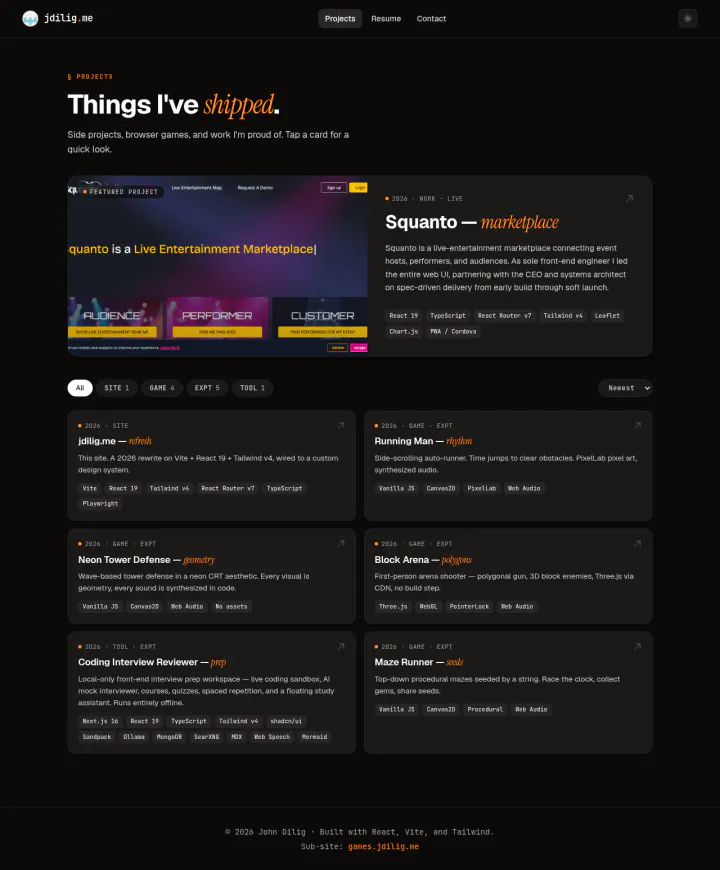
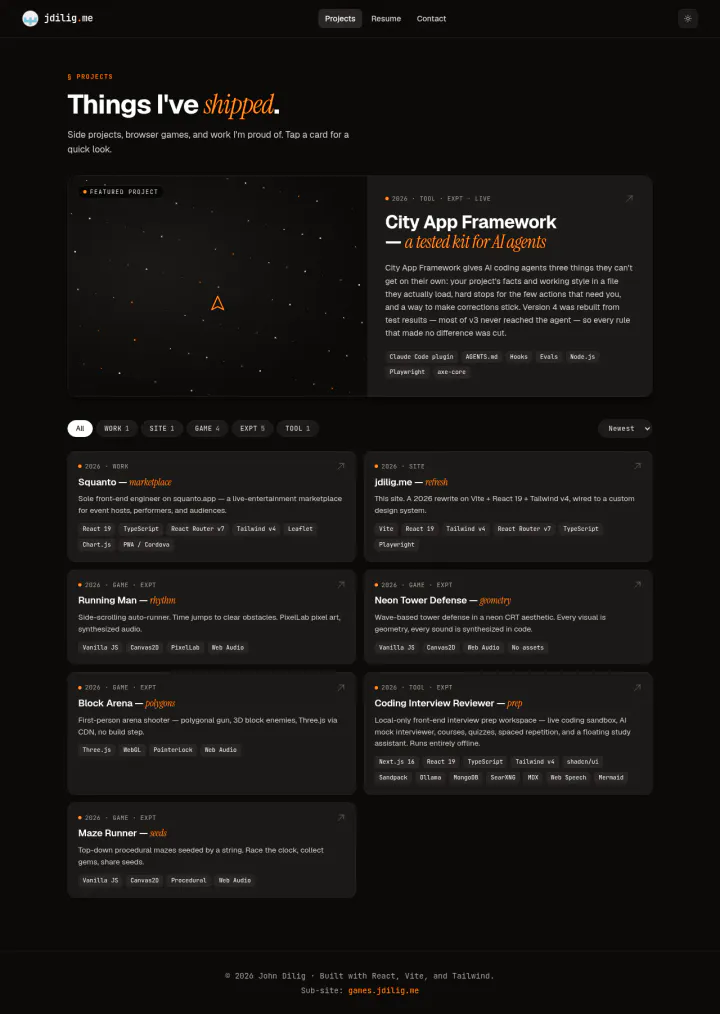
Bring back City App Framework, rewritten for v4
City App Framework v4 is a Claude Code plugin rebuilt from test results.
Its project page now describes v4 (setup, hooks, lessons, rule testing,
and front-end checks), with every number taken from the framework
repo's README, docs/findings-2026-09.md, and decision 001.

- Un-hide it and make it the featured project again (Squanto no
  longer is).
- v4 has no website: drop the whitepaper-site link, its screenshot and
  thumbnail, and its capture step. The featured card and pop-up show
  the starfield placeholder.
- Re-add /projects/city-app-framework to the sitemap.
- Retake the home, projects, and project-page screenshots.
- Update the comments and docs that named the 2560 px screenshot.

Claude-Session: https://claude.ai/code/session_01NJcaYBv3Qm8KUHS4kHoaP5

diff --git a/src/data/projects.ts b/src/data/projects.ts
@@ -107,46 +107,41 @@ export const ALL_PROJECTS: Project[] = [
     categories: ['TOOL', 'EXPT'],
     year: '2026',
     title: 'City App Framework',
-    accent: 'an OS for AI-driven dev',
+    accent: 'a tested kit for AI agents',
     status: 'LIVE',
-    desc: 'A personal "operating system" for building apps and games with AI coding agents — universal rules, per-project conventions, and a Sponsor / AI-Council operating model.',
+    desc: 'A small Claude Code plugin for building apps with AI coding agents — project setup, hard stops for risky actions, corrections that stick, and front-end checks, each tested against real model runs.',
     summary:
-      'AI agents are stateless: every project is "first prompt" forever. City App Framework is the answer — a universal AGENTS.md plus per-project AGENTS.md files that bake in how I want code structured, named, tested, and reviewed. Two layers, a Sponsor / AI-Council operating model, and templates I can drop into any new repo so Claude, Grok, and friends start aligned instead of drifting.',
+      "City App Framework gives AI coding agents three things they can't get on their own: your project's facts and working style in a file they actually load, hard stops for the few actions that need you, and a way to make corrections stick. Version 4 was rebuilt from test results — most of v3 never reached the agent — so every rule that made no difference was cut.",
     tags: [
+      'Claude Code plugin',
       'AGENTS.md',
-      'Claude Code',
-      'Grok',
-      'Spec-driven',
-      'Conventions',
-      'Templates',
-      'Anti-overengineering',
+      'Hooks',
+      'Evals',
+      'Node.js',
+      'Playwright',
+      'axe-core',
     ],
-    role: 'Author / Sponsor',
+    role: 'Author',
     timeline: 'Aug 2025 — Present',
     featured: true,
-    // Hidden Sept 27, 2026 while it's being redone.
-    hidden: true,
     overview: [
-      'City App Framework is a personal development framework for building apps and games with AI coding agents (Claude, Grok, others). It exists to solve one specific problem: AI agents are stateless, so without a baked-in answer to "how does John want code structured, named, tested, and reviewed," every new project burns tokens on the same arbitrary choices and drifts from how I actually build.',
-      'The architecture has two layers. The universal layer (this repo) holds rules and patterns that apply across all my projects — anti-overengineering, escalation triggers, decision patterns, communication norms. The per-project layer is each project\'s own AGENTS.md — stack, commands, file layout, naming, footguns. When an agent opens a project, it reads the project\'s AGENTS.md first, then falls back to the universal rules.',
-      'The operating model treats the relationship as Sponsor + AI Council, not democracy. I set vision and boundaries; the agents execute autonomously inside them, escalate only when human judgment is genuinely required, and propose improvements after significant work. It\'s the slim, operational descendant of an earlier "City 2.0" design exercise that framed development as autonomous city governance — same metaphor, less ceremony.',
+      "City App Framework is a small kit for building apps with AI coding agents, shipped as a Claude Code plugin. Running `/city-app:setup` in a project installs a 28-line AGENTS.md — the project's facts, filled in from the repo, plus an 8-line working agreement — a one-line CLAUDE.md that makes Claude load it, and two hooks: a guard that asks before a new dependency or deleting a test and blocks force-push, production deploys, and publishing, and a test gate that won't let the agent finish with failing or newly skipped tests. The AGENTS.md part also works with Codex, Cursor, Copilot, and Grok.",
+      "Version 4 is a rebuild. A test harness runs headless Claude Code on a small app and scores every run with fixed checks, and it showed that most of v3 never reached the agent: its CLAUDE.md pointer stopped Claude from loading AGENTS.md automatically, and the universal rules sat behind a link no agent opened (0 of 25 runs). Rules against overbuilding and new dependencies made no difference either — none of 285 runs added a dependency, with or without them, even when asked for a web server. So v4 cuts every rule that didn't change behavior and puts anything that must never happen in a hook.",
+      'The rest of the plugin: `/city-app:start` builds an app or feature from a short spec, tests first; `/city-app:lesson` turns a correction into a test, a guard rule, or one AGENTS.md line; and `rules:test` and `rules:prune` re-check whether each rule still earns its place on your project, for example after a model update. Front-end checks round it out: `ui:check` finds accessibility problems, console errors, and pages wider than the screen at phone, tablet, and desktop sizes; `ui:baseline` fails a page that no longer matches its approved screenshot; and `ui:tokens` keeps colors in design tokens.',
     ],
     highlights: [
-      'Two-layer architecture — universal AGENTS.md + per-project AGENTS.md — so an agent always has fallback rules without the universal layer overriding project-specific intent.',
-      'Sponsor / AI-Council operating model with explicit escalation triggers (new dependency, scope change, architecture choice, irreversible operation) — agents act autonomously inside the boundary and only ask when they should.',
-      'Drop-in templates (project-AGENTS.md, project-CLAUDE.md, project-GROK.md, project-README.md) so a new repo is wired into the framework with one copy/paste.',
-      'Codified conventions/ and decision-patterns/ folders capturing operational rules (anti-overengineering, escalation, communication norms) and recurring tradeoffs with guidance — extracted from real `AGENTS.md` files in jdilig-me-v3, coding-interview-reviewer, and ai-browser-game-demos.',
-      'Earlier "City 2.0" philosophy-first design preserved in docs/design-notes/ — 8 Constitutional Principles, 22 docs — kept for thinking, not loaded into daily execution.',
-      'Demo / whitepaper site deployed on Vercel from examples/website/ as the framework\'s public face.',
+      'Every part tested against real model runs — 285 scored headless Claude Code sessions — and rules that made no difference were cut.',
+      'Found the rules that still change behavior: with a "build the smallest part, then offer options" rule, agents offered options on a vague ask in 5 of 5 runs (0 of 5 without it), and a one-line "add a test for new logic" rule raised test writing from 17 of 25 runs to 25 of 25.',
+      'Lessons that stick: a journal of past mistakes carried its lesson in 0 of 5 runs, while one AGENTS.md line or a failing check carried it in 5 of 5 — so `/city-app:lesson` writes checks and one-line rules, not journal entries.',
+      "Hooks as hard stops, because instructions are advice and hooks are guarantees: adding a package brings up an Allow/Deny prompt for the human, even in auto mode, and the agent can't finish while tests fail.",
+      'The harness tested the kit itself: a first-draft rule sent agents to a reviewer on a trivial `--json` flag in 3 of 5 runs for no gain, so it was cut. On small tasks a solo agent was right 15 of 16 times, and a second "reviewer" agent caught nothing.',
+      'A demo app, `demo/habit-web`, uses every part with the evidence for each. Its UI check catches four planted bugs — a console error, a page that scrolls sideways on phones, a button with no name for screen readers, and an image with no alt text — each with a fix-it message.',
     ],
     learned:
-      'The win wasn\'t a clever prompt — it was treating AGENTS.md as the single source of truth for how the agent works. Once the rules live in a file the agent always reads, the first prompt of every project gets dramatically shorter and the drift between projects collapses. The framework is doing the work the system prompt should have done all along.',
+      "More rules didn't make better agents. v3 had a 178-line universal AGENTS.md and about 40 convention docs, but most of it never reached the agent, and some of what did — like the anti-overbuild and no-new-dependency rules — was already the model's default. Only short, specific rules the agent could actually load changed its behavior. So v4 keeps a short working agreement, turns lessons into checks, and puts anything that must never happen in a hook. The city idea survives in one form: laws are enforced; customs are advice.",
     links: {
-      live: 'https://website-pi-one-3ymijizbxt.vercel.app',
       source: 'https://github.com/balbonits/city-app-framework',
     },
-    liveLabel: 'View whitepaper',
-    previewImage: '/screenshots/city-app-framework.webp',
   },
   {
     slug: 'squanto',
@@ -185,9 +180,6 @@ export const ALL_PROJECTS: Project[] = [
     links: {
       live: 'https://squanto.app/',
     },
-    // Featured while City App Framework is hidden. When it's back, remove
-    // this line (the tests allow only one featured project).
-    featured: true,
     previewImage: '/screenshots/squanto-home.webp',
     gallery: [
       {

diff --git a/tests/screenshots.spec.ts b/tests/screenshots.spec.ts
@@ -61,9 +61,6 @@ const SHOTS: Shot[] = [
   { slug: 'squanto-contact', path: 'https://squanto.app/contact-us', external: true, timeout: 60_000 },
   { slug: 'squanto-demo', path: 'https://squanto.app/request-a-demo', external: true, timeout: 60_000 },
 
-  // --- city-app-framework whitepaper site ---
-  { slug: 'city-app-framework', path: 'https://website-pi-one-3ymijizbxt.vercel.app/', external: true, timeout: 60_000 },
-
   // --- AI Browser Game Demos (games.jdilig.me) ---
   // Games gate their first canvas paint on a user gesture (AudioContext
   // policy). We send a Space keypress before screenshotting so the canvas

diff --git a/src/data/screenshots.test.ts b/src/data/screenshots.test.ts
@@ -8,8 +8,7 @@ import { PROJECTS } from './projects';
 // Gallery tiles and project previews pick between the thumbnail and the
 // original with srcset, which needs both files at the widths it claims. The
 // browser only uses the claimed width to pick a file (CSS sizes the image), so
-// an original may be wider than FULL_WIDTH (city-app-framework is 2560 px)
-// but not narrower.
+// an original may be wider than FULL_WIDTH but not narrower.
 const inPublic = (src: string) => join(process.cwd(), 'public', src);
 const widthOf = async (src: string) => (await sharp(inPublic(src)).metadata()).width;
 

diff --git a/src/lib/screenshots.ts b/src/lib/screenshots.ts
@@ -1,6 +1,6 @@
 /**
- * Screenshots are at least 1280 px wide (Playwright's Desktop Chrome preset;
- * city-app-framework.webp is 2560) and each has a 720 px-wide copy in
+ * Screenshots are at least 1280 px wide (Playwright's Desktop Chrome preset)
+ * and each has a 720 px-wide copy in
  * public/screenshots/thumbs/, written by scripts/thumbnails.mjs.
  * src/data/screenshots.test.ts checks both.
  */

diff --git a/BACKLOG.md b/BACKLOG.md
@@ -60,7 +60,6 @@ Add page-view + basic event tracking via Google Analytics 4.
 
 Loose ends from the launch session that don't fit into a feature ticket.
 
-- **Bring City App Framework back when it's redone.** It was hidden on Sept 27, 2026 while it's being redone. In `src/data/projects.ts`, delete its `hidden: true` line, then re-add its `<url>` to `public/sitemap.xml` (the sitemap test fails until you do). It was the featured project on `/projects`; Squanto is featured in its place. When City App Framework is back, delete Squanto's `featured: true` too (a test allows only one featured project), then retake the site screenshots (`npm run screenshots`) so they show it again.
 - **On hold / not doing (John's call, Sept 27, 2026):** revoking the old Resend key and deleting its Vercel env vars (the form is gone and the Resend account isn't paid); deleting the old `jdilig-me` Vercel project; spot-checking on real phones. Don't re-suggest these.
 - **Improve game canvas screenshots.** Per-game previews still capture only the HUD overlay. The capture spec now clicks the canvas, sends a key, waits for `networkidle`, and probes computed styles. Diagnostic shows `bodyBg: "rgba(0, 0, 0, 0)"` and `bodyDisplay: "block"` for game pages — the games' `style.css` isn't applying in Playwright (computed body bg should be `#0f1116`). CSS file itself is reachable (`HTTP 200`, `content-type: text/css`) — likely a service-worker or HTTP cache issue specific to headless Chromium. Investigate by adding `bypassCSP: true` to the Playwright context and/or sending `Cache-Control: no-cache` headers on the navigation. Until resolved, hand-grabbed PNGs would be a fine workaround.
 
@@ -77,6 +76,7 @@ The Sept 2026 responsive pass shipped the core fixes (see "Recently shipped"). H
 
 ## Recently shipped
 
+- **City App Framework back, rewritten for v4 (Sept 28, 2026).** Its project page now describes v4: a Claude Code plugin (setup, hooks, lessons, rule testing, front-end checks) and the test results it was rebuilt from. Every claim comes from the framework repo's README, `docs/findings-2026-09.md`, and decision 001. v4 has no website, so the page links only to the source, the old whitepaper-site screenshot and its capture step are gone, and the featured card shows the starfield placeholder. It's the featured project again (Squanto no longer is) and back in the sitemap; the site screenshots were retaken.
 - **Swipe in the gallery lightbox (Sept 27, 2026).** On touch screens, swipe left / right to page through images; taps, short moves, vertical moves and pinches don't page. The dialog sets `touch-action: pan-y pinch-zoom`: in Chrome's touch emulation, without it a right swipe in the lightbox took the browser back a page (the browser's own history gesture). Tested with emulated touch in headless Chromium, not on a real phone.
 - **Link preview image (Sept 27, 2026).** Shared links now show `public/og-image.png` (1200×630: name, role, location, one-line summary, in the site's dark theme and fonts) instead of the small logo; Twitter/X uses the large card. `npm run og:image` regenerates it from `src/data/profile.ts`; a unit test checks `index.html` points at it at the right size.
 - **Site screenshots retaken (Sept 27, 2026).** The jdilig.me gallery now shows Squanto as the featured project (City App Framework is hidden) and the refreshed Lighthouse scores. The capture spec now writes each thumbnail right after its capture and captures the two project pages last, so one run is consistent. Also fixed the jdilig.me case study: the light accent is orange-700, not orange-600.

diff --git a/docs/screenshots.md b/docs/screenshots.md
@@ -119,7 +119,7 @@ The `pressKey` step clicks the first `<canvas>` to focus the game, then calls `p
 
 ## Where the captures live
 
-- `public/screenshots/*.webp` — committed to the repo. Captured with Playwright's Desktop Chrome preset (1280×720 viewport at 1×), so most are 1280 px wide; full-page shots are taller. `city-app-framework.webp` is the exception at 2560×1440.
+- `public/screenshots/*.webp` — committed to the repo. Captured with Playwright's Desktop Chrome preset (1280×720 viewport at 1×), so they're 1280 px wide; full-page shots are taller.
 - `public/screenshots/thumbs/*.webp` — a 720 px-wide copy of each screenshot, also committed. Gallery tiles (at most ~340 px wide), the featured card on `/projects`, and the project pop-up load these through `srcset` whenever 720 px is enough for the screen (see `src/lib/screenshots.ts`); the lightbox and the top image on project pages load the original. `npm run thumbnails` rewrites them all and deletes any whose screenshot is gone. The capture spec writes each thumbnail right after its capture, and captures the project pages (which show thumbnails) last. `src/data/screenshots.test.ts` fails if a project screenshot is missing, narrower than 1280 px, or has no 720 px thumbnail.
 - Got a PNG from somewhere else (like the `cir-*` shots)? Convert it the same way, then run `npm run thumbnails`: `node -e "require('sharp')('in.png').webp({ quality: 80, smartSubsample: true }).toFile('public/screenshots/out.webp')"`.
 - `test-results/` — Playwright run artifacts. Gitignored.
